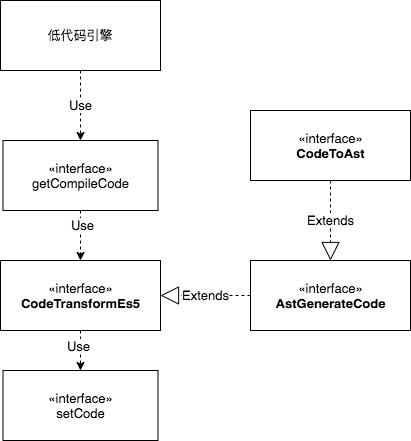
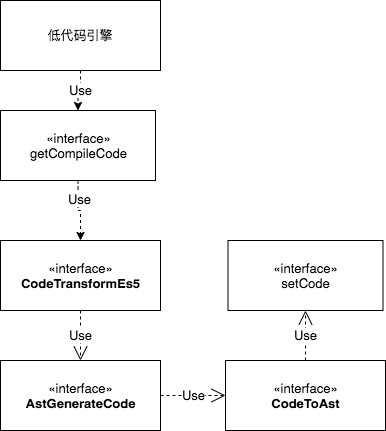
feat: add

diff --git a/packages/code-engine/docs/code-engine-design.md b/packages/code-engine/docs/code-engine-design.md
@@ -45,7 +45,7 @@ nav:
 
 ![图片描述](https://cdn.jsdelivr.net/gh/18613109040/editor/public/images/03.png)
 
-### 6. 
+### 6. 接口模型
 
 ![图片描述](https://cdn.jsdelivr.net/gh/18613109040/editor/public/images/08.png)
 
